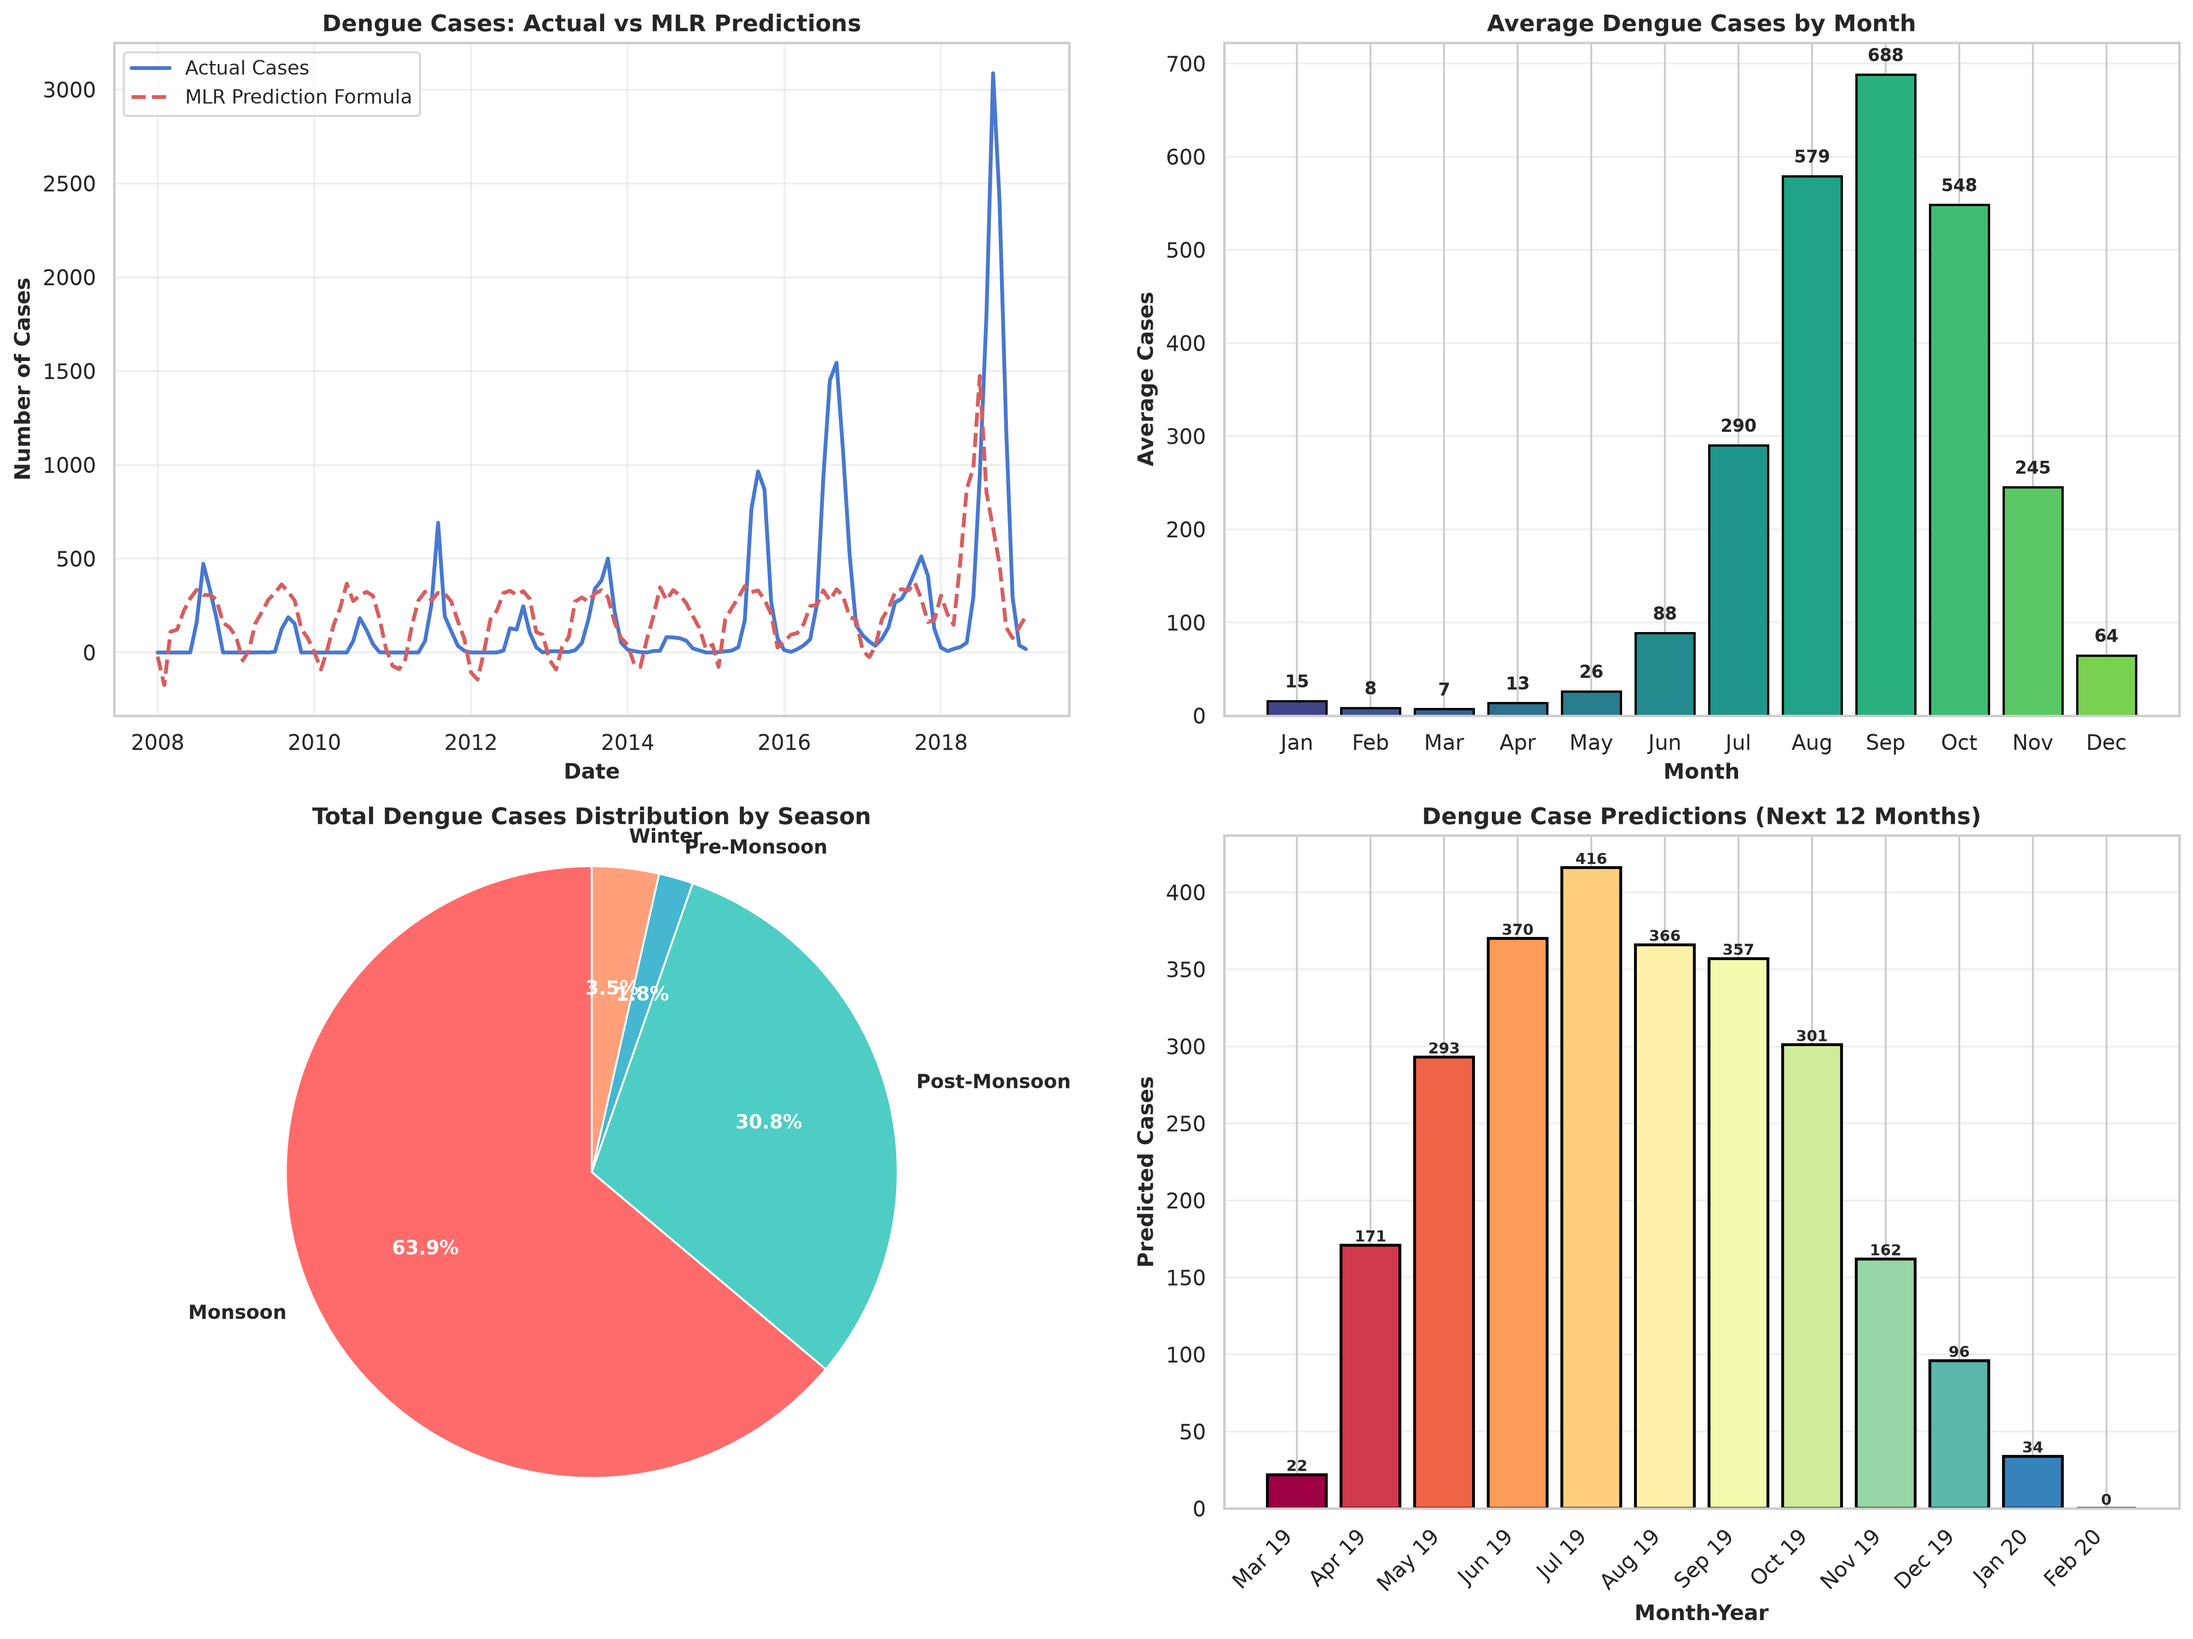
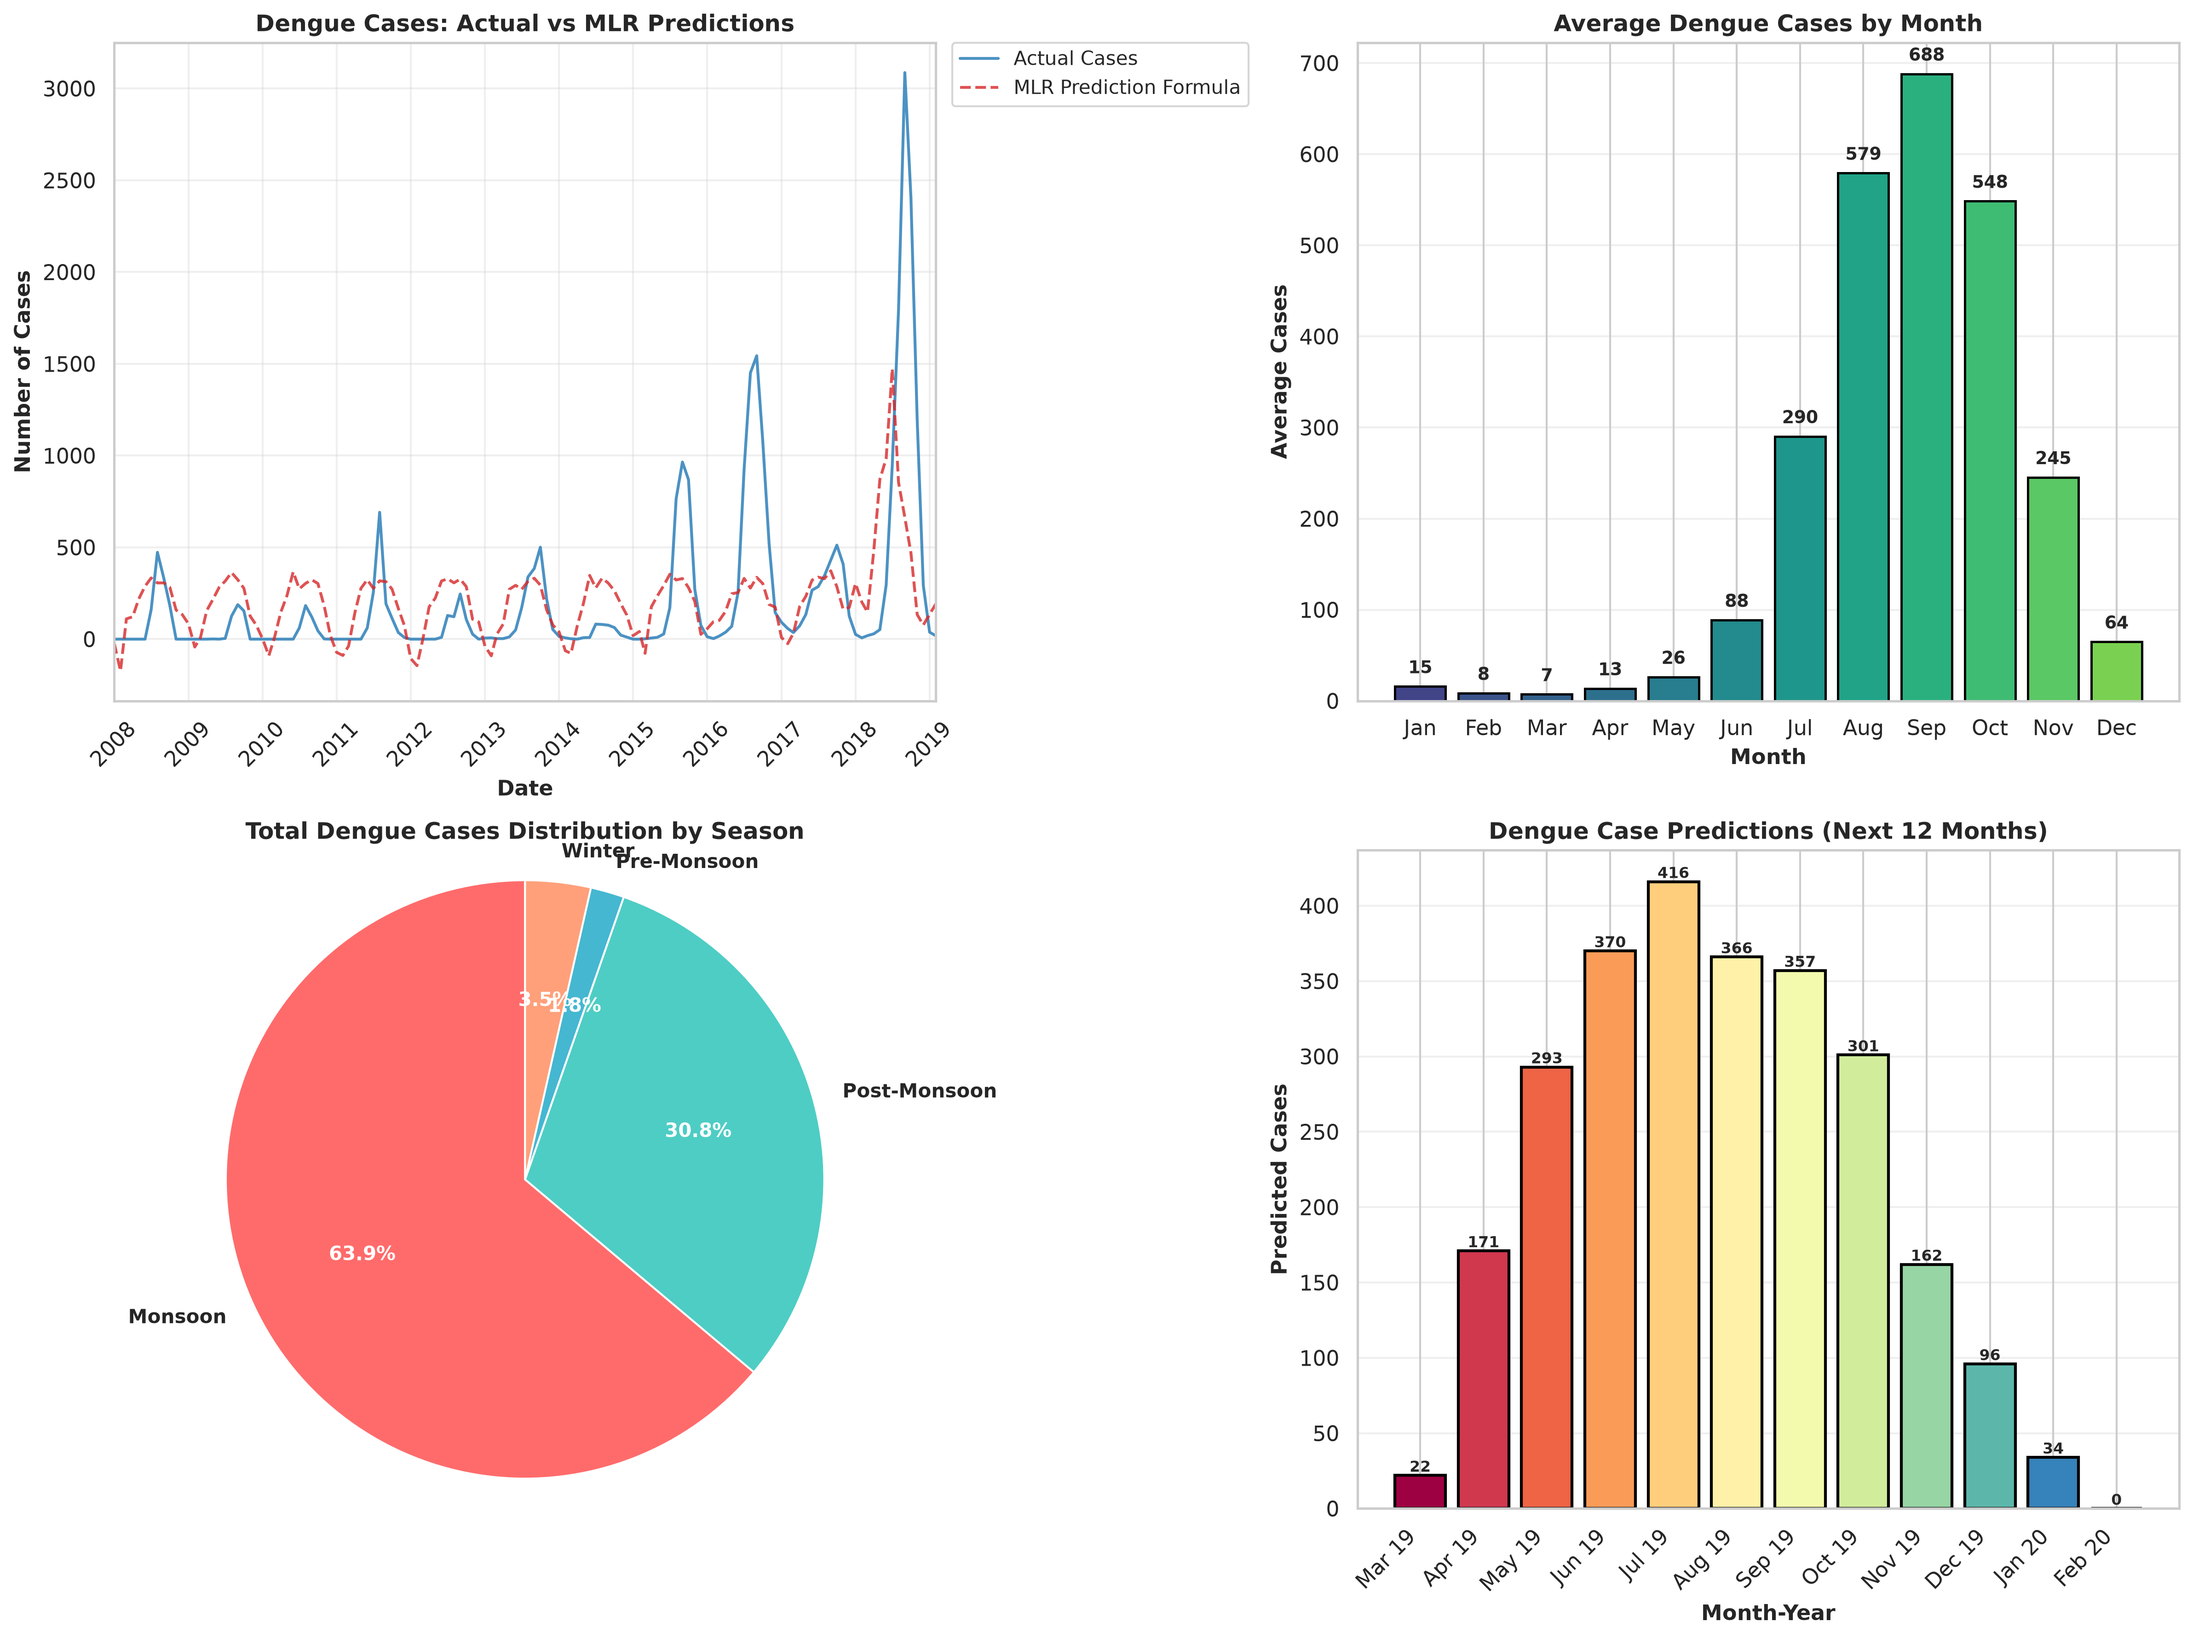
Fix plot overlap: format main chart and rotate year ticks

diff --git a/DengueOutbreakPrediction/multi-linear regression/model.py b/DengueOutbreakPrediction/multi-linear regression/model.py
@@ -9,6 +9,7 @@ import pandas as pd
 import numpy as np
 import matplotlib.pyplot as plt
 import seaborn as sns
+import matplotlib.dates as mdates
 from sklearn.linear_model import LinearRegression
 from sklearn.metrics import mean_squared_error, r2_score, mean_absolute_error
 from sklearn.model_selection import train_test_split
@@ -230,13 +231,20 @@ print("="*70)
 # Figure 1: Actual vs Predicted & Forecast
 fig, axes = plt.subplots(2, 2, figsize=(16, 12))
 
-# Plot 1: Actual vs Predicted Time Series
-axes[0, 0].plot(df['Date'], y, 'b-', label='Actual Cases', linewidth=2)
-axes[0, 0].plot(df['Date'], y_pred, 'r--', label='MLR Prediction Formula', linewidth=2)
+# Plot 1: Actual vs Predicted Time Series (formatted to avoid overlaps)
+axes[0, 0].plot(df['Date'], y, color='tab:blue', label='Actual Cases', linewidth=1.5, alpha=0.8)
+axes[0, 0].plot(df['Date'], y_pred, color='tab:red', linestyle='--', label='MLR Prediction Formula', linewidth=1.5, alpha=0.8)
 axes[0, 0].set_xlabel('Date', fontsize=11, fontweight='bold')
 axes[0, 0].set_ylabel('Number of Cases', fontsize=11, fontweight='bold')
 axes[0, 0].set_title('Dengue Cases: Actual vs MLR Predictions', fontsize=12, fontweight='bold')
-axes[0, 0].legend(fontsize=10)
+# Use year ticks and rotate labels to prevent overlapping text
+axes[0, 0].set_xlim(df['Date'].min(), df['Date'].max())
+axes[0, 0].xaxis.set_major_locator(mdates.YearLocator())
+axes[0, 0].xaxis.set_major_formatter(mdates.DateFormatter('%Y'))
+for lbl in axes[0, 0].get_xticklabels():
+    lbl.set_rotation(45)
+# Move legend outside plot area to avoid overlapping with the plot
+axes[0, 0].legend(loc='upper left', bbox_to_anchor=(1.02, 1), borderaxespad=0, fontsize=10)
 axes[0, 0].grid(True, alpha=0.3)
 
 # Plot 2: Monthly Average Dengue Cases
